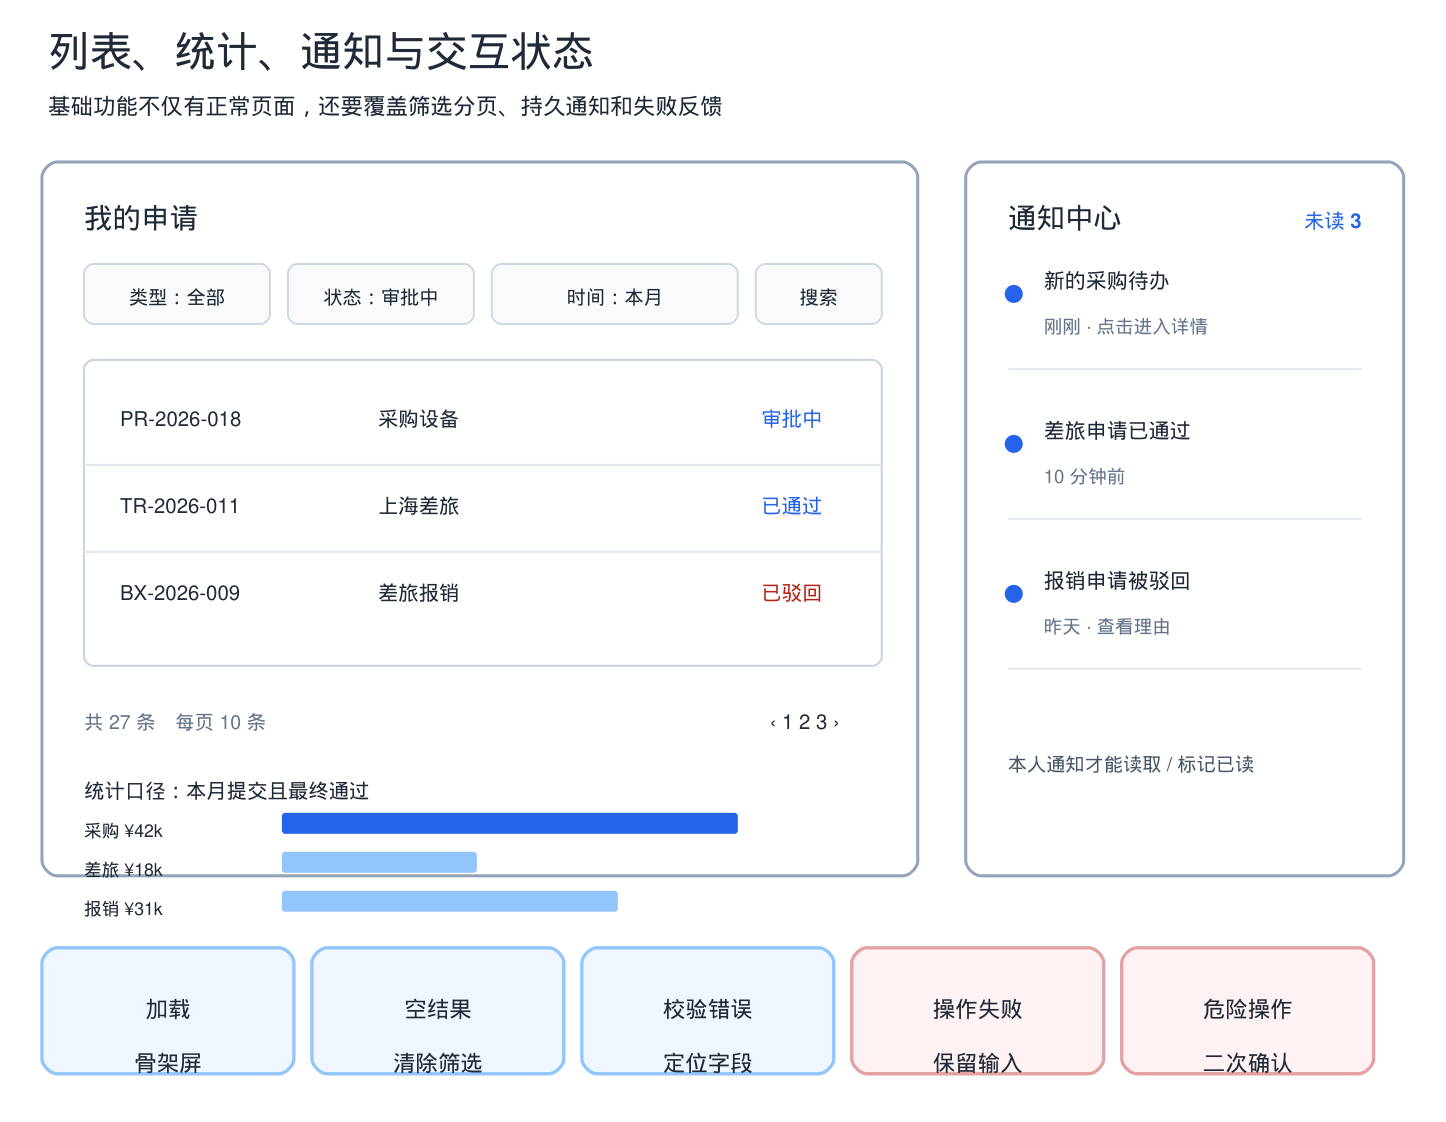
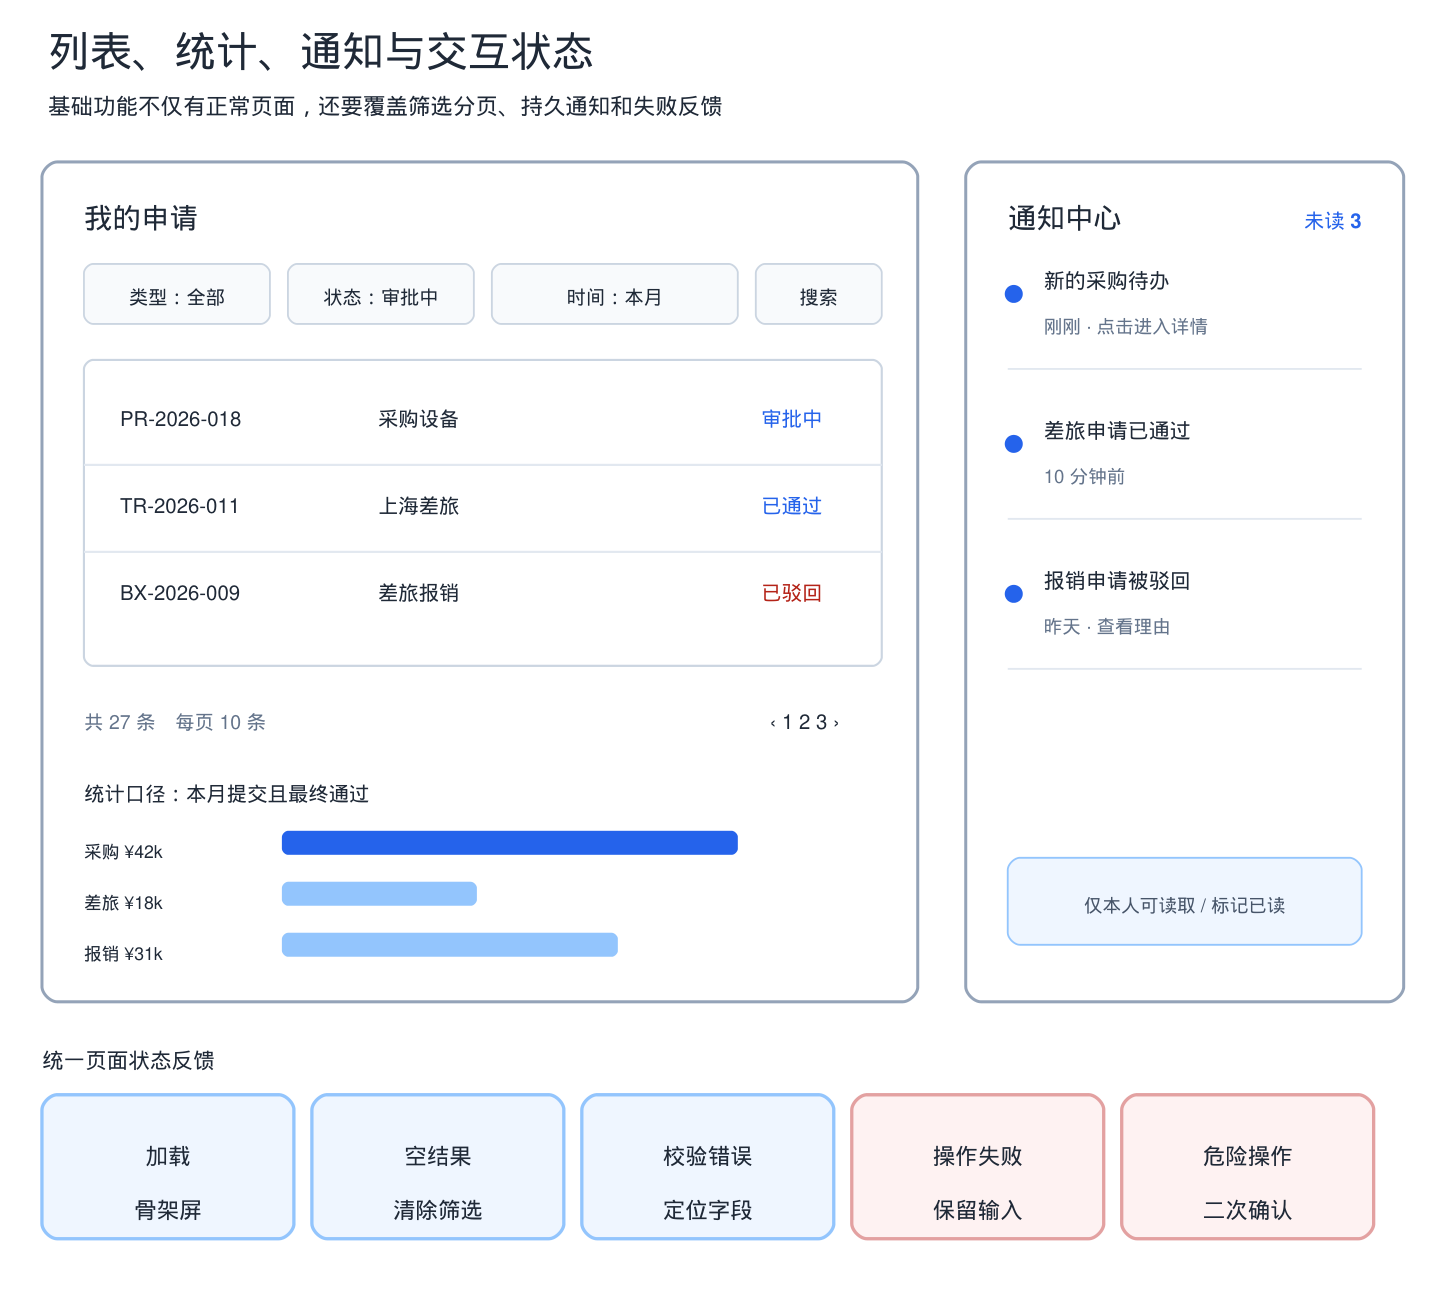
docs: fix statistics and state layout in figure 16

diff --git a/design-assets/generate_additional_figures.py b/design-assets/generate_additional_figures.py
@@ -65,8 +65,9 @@ def template_editor():
 
 
 def list_notification_states():
-    f = Fig("列表、统计、通知与交互状态", "基础功能不仅有正常页面，还要覆盖筛选分页、持久通知和失败反馈", 374)
-    f.rect(14, 54, 292, 238, "#FFFFFF", BORDER, 5, 1)
+    f = Fig("列表、统计、通知与交互状态", "基础功能不仅有正常页面，还要覆盖筛选分页、持久通知和失败反馈", 430)
+    # 上半部分左右面板统一到底部 y=334，统计内容不再溢出面板。
+    f.rect(14, 54, 292, 280, "#FFFFFF", BORDER, 5, 1)
     f.text(28, 76, "我的申请", 9.5, weight=700)
     filters = [(28, 88, 62, "类型：全部"), (96, 88, 62, "状态：审批中"), (164, 88, 82, "时间：本月"), (252, 88, 42, "搜索")]
     for x, y, w, label in filters:
@@ -78,10 +79,12 @@ def list_notification_states():
         f.text(40, y, row[0], 6.8); f.text(126, y, row[1], 6.8); f.text(264, y, row[2], 6.8, "middle", BLUE if i < 2 else "#B42318")
     f.text(28, 243, "共 27 条　每页 10 条", 6.5, fill="#64748B")
     f.text(280, 243, "‹  1  2  3  ›", 6.8, "end")
-    f.text(28, 266, "统计口径：本月提交且最终通过", 6.8, weight=700)
+    f.text(28, 267, "统计口径：本月提交且最终通过", 6.8, weight=700)
     for i, (label, value, width) in enumerate([("采购  ¥42k", 42, 152), ("差旅  ¥18k", 18, 65), ("报销  ¥31k", 31, 112)]):
-        y = 279 + i * 13; f.text(28, y, label, 5.9); f.rect(94, y - 8, width, 7, BLUE if i == 0 else "#93C5FD", "none", 1, 0)
-    f.rect(322, 54, 146, 238, "#FFFFFF", BORDER, 5, 1)
+        y = 286 + i * 17
+        f.text(28, y, label, 5.9)
+        f.rect(94, y - 9, width, 8, BLUE if i == 0 else "#93C5FD", "none", 2, 0)
+    f.rect(322, 54, 146, 280, "#FFFFFF", BORDER, 5, 1)
     f.text(336, 76, "通知中心", 9.5, weight=700); f.text(454, 76, "未读 3", 6.8, "end", BLUE, 700)
     notifications = [(98, "新的采购待办", "刚刚 · 点击进入详情"), (148, "差旅申请已通过", "10 分钟前"), (198, "报销申请被驳回", "昨天 · 查看理由")]
     for y, title, sub in notifications:
@@ -89,12 +92,14 @@ def list_notification_states():
         f.text(348, y - 2, title, 7, weight=700)
         f.text(348, y + 13, sub, 6.2, fill="#64748B")
         f.line(336, y + 25, 454, y + 25, "#E2E8F0", 0.6)
-    f.text(336, 257, "本人通知才能读取 / 标记已读", 6.4, fill="#475569")
+    f.rect(336, 286, 118, 29, PALE_BLUE, "#93C5FD", 4, 0.6)
+    f.text(395, 304, "仅本人可读取 / 标记已读", 6.2, "middle", fill="#475569")
+    f.text(14, 356, "统一页面状态反馈", 7.2, weight=700)
     states = [(14, "加载", "骨架屏"), (104, "空结果", "清除筛选"), (194, "校验错误", "定位字段"), (284, "操作失败", "保留输入"), (374, "危险操作", "二次确认")]
     for x, title, sub in states:
         fill = PALE_RED if title in ("操作失败", "危险操作") else PALE_BLUE
         stroke = "#E3A1A1" if fill == PALE_RED else "#93C5FD"
-        f.card(x, 316, 84, 42, title, (sub,), fill=fill, stroke=stroke, title_size=7.5)
+        f.card(x, 365, 84, 48, title, (sub,), fill=fill, stroke=stroke, title_size=7.5)
     f.save("16-list-notification-states")
 
 
